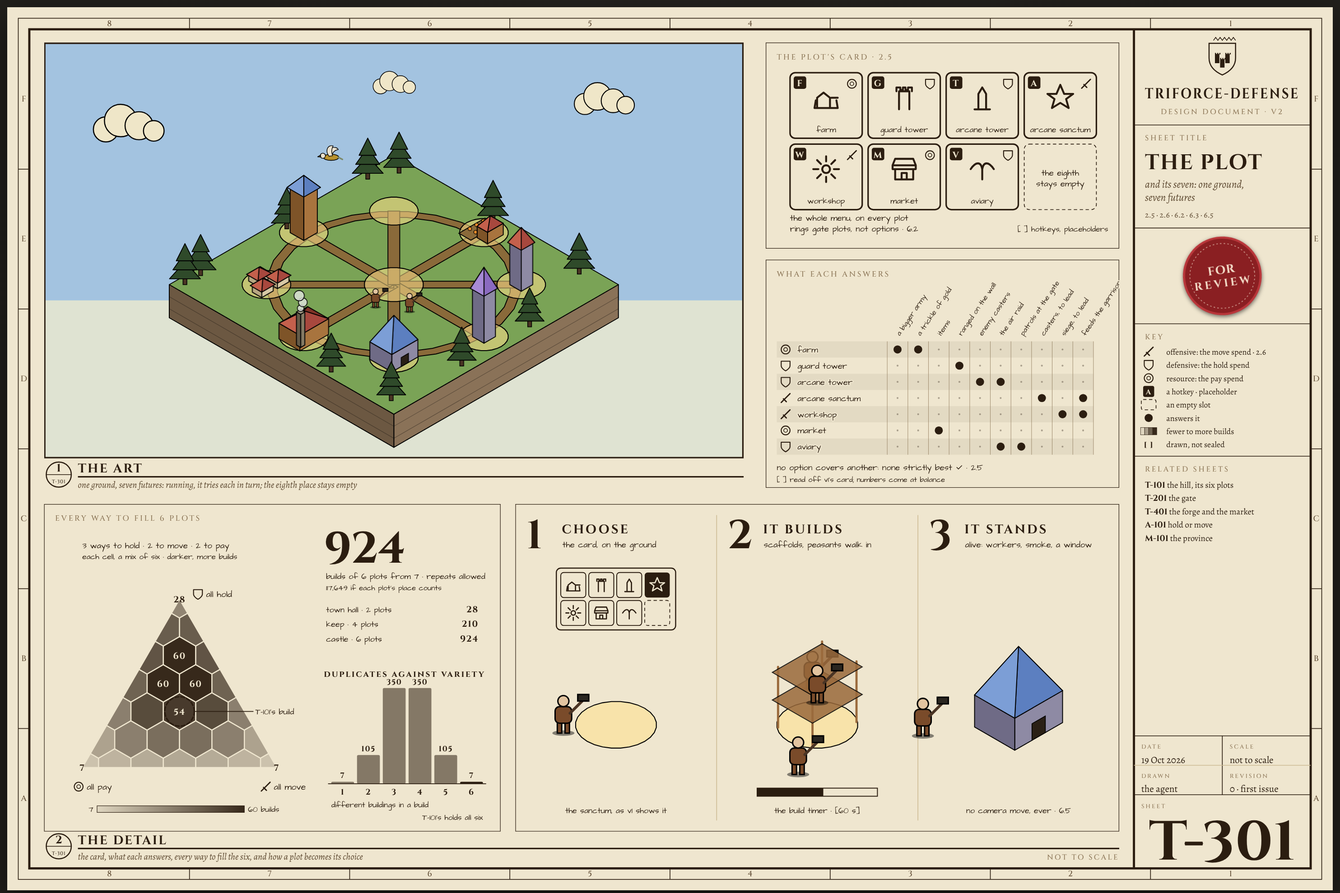
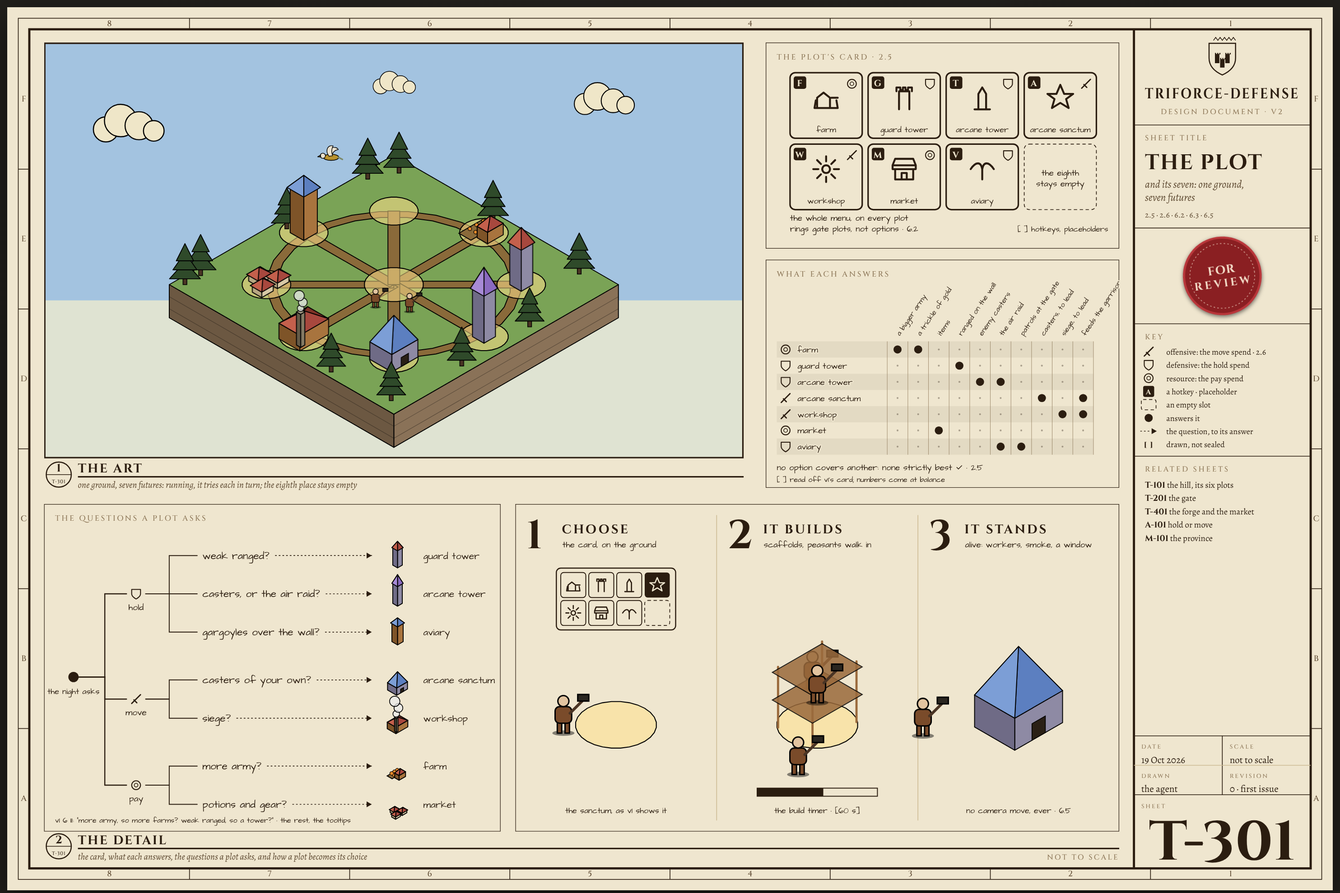
T-301 rev 1: the questions a plot asks replaces the build-space heatmap
The owner turned down the heatmap panel and picked option A of three shown
(the options image is kept in shots/). The tree runs from what the night
asks, through the spend, to the building that answers it; each option's
question is in the town model.

Claude-Session: https://claude.ai/code/session_0171ubkrirX9kEJ21GccUo3u

diff --git a/design/v2/sheet_t301.js b/design/v2/sheet_t301.js
@@ -2,21 +2,19 @@
    THE ART    one ground, seven futures: an empty plot among the seven it can become, the eighth slot empty.
               Running, the ground tries each in turn; the still is the ground before the choice.
    THE DETAIL the plot's card (v1's seven buttons, the eighth empty); what each answers, and the check that
-              none is strictly best (2.5's change rule); every way to fill six plots, as a ternary heatmap of
-              hold, move and pay (python-ternary's hexagonal heatmap, MIT, ported), and the fork v1 names,
-              duplicates against variety; and the plot building itself in view, in three steps (6.5 · R10). */
+              none is strictly best (2.5's change rule); the questions a plot asks, a tree from the night's
+              trouble through the spend to the answer (the owner's pick of three, A); and the plot building
+              itself in view, in three steps (6.5 · R10). */
 (function () {
   // every face loaded first: labels here are placed by their measured widths
   (document.fonts ? Promise.all([...document.fonts].map((f) => f.load().catch(() => null))).then(() => document.fonts.ready) : Promise.resolve()).then(draw);
   function draw() {
   const { el, pts, render } = window.WALL;
   const M = window.MODELS.town, F = window.FIG, ISO = window.ISO;
-  const { text, OPTION, treeParts, ROLE } = window.TOWN;
+  const { text, OPTION, treeParts, ROLE, icon } = window.TOWN;
   const lbl = (g, x, y, s, anchor, size) => text(g, x, y, s, 'pl-lbl', anchor, size || 24);
   const OPT = Object.fromEntries(M.options.map((o) => [o.id, o]));
-  const N = M.plots.length, K = M.options.length;
-  const C = (n, k) => { let r = 1; for (let i = 1; i <= k; i++) r = r * (n - k + i) / i; return Math.round(r); };
-  const multisets = (size, types) => C(size + types - 1, types - 1);       // ways to fill `size` plots from `types` buildings, repeats allowed
+  const K = M.options.length;
 
   /* ════════════ THE ART: one ground, seven futures ════════════ */
   const A = document.getElementById('art'), AW = 1900, AH = 1130;
@@ -106,64 +104,32 @@
   if (strict.length) ok.style.fill = 'var(--redline)';
   lbl(W2, 30, yN + 32, '[ ] read off v1\'s card; numbers come at balance', 'start', 20);
 
-  /* ════════════ EVERY WAY TO FILL SIX PLOTS ════════════ */
-  const SP = document.getElementById('space'), SW2 = 1240, SH2 = 890;
-  const S = el('g', { class: 'hand-vellum' }, SP);
-  el('rect', { width: SW2, height: SH2, class: 'view-frame' }, S);
-  text(S, 30, 46, `every way to fill ${N} plots`, 'sc-kick');
-  const types = { off: 0, def: 0, res: 0 }; M.options.forEach((o) => types[o.role]++);
-  // the mix of a build: how many plots move, hold and pay. Each cell counts the builds with that mix
-  const cells = [];
-  for (let a = 0; a <= N; a++) for (let b = 0; a + b <= N; b++) { const c = N - a - b; cells.push([a, b, c, multisets(a, types.off) * multisets(b, types.def) * multisets(c, types.res)]); }
-  const total = cells.reduce((s2, q) => s2 + q[3], 0), vmax = Math.max(...cells.map((q) => q[3]));
-  // python-ternary's hexagons: a corner, an edge or an interior point each takes its own clipped shape
-  const hx = (() => {
-    const z = [0, 0, 0], al = [-1 / 3, 2 / 3, 0], up = [1 / 3, 1 / 3, 0], dn = [2 / 3, -1 / 3, 0], iv = [0, .5, -.5], ivd = [.5, -.5, 0], dX = [.5, 0, -.5], neg = (v) => v.map((q) => -q);
-    return { 100: [z, neg(dX), neg(dn), neg(ivd)], '010': [z, ivd, neg(al), neg(iv)], '001': [z, iv, up, dX], '011': [iv, up, dn, neg(al), neg(iv)], 101: [neg(dX), neg(dn), al, up, dX], 110: [ivd, neg(al), neg(up), neg(dn), neg(ivd)], 111: [al, up, dn, neg(al), neg(up), neg(dn)] };
-  })();
-  const U = 88, TX = 104, TY = 716, R3 = Math.sqrt(3) / 2;
-  const proj = ([a, b]) => [TX + (a + b / 2) * U, TY - R3 * b * U];          // move to the right, hold to the top, pay to the left
-  const css = getComputedStyle(document.documentElement), hex2 = (h) => h.trim().match(/\w\w/g).map((q) => parseInt(q, 16));
-  const [p0, p1] = [hex2(css.getPropertyValue('--dv-paper')), hex2(css.getPropertyValue('--dv-line'))];
-  const ramp = (t) => `rgb(${p0.map((v, i) => Math.round(v + (p1[i] - v) * t)).join(',')})`;
-  const build = M.build.map((id) => OPT[id].role), mine = [build.filter((r) => r === 'off').length, build.filter((r) => r === 'def').length, build.filter((r) => r === 'res').length];
-  cells.forEach(([a, b, c, v]) => {
-    const sig = [a, b, c].map((q) => (q ? 1 : 0)).join('');
-    const poly = hx[sig].map((d) => proj([a + d[0], b + d[1]]));
-    const t = v / vmax, cell = el('polygon', { points: pts(poly), style: `fill:${ramp(.08 + .86 * t)};stroke:var(--dv-paper);stroke-width:3` }, S);
-    el('title', {}, cell).textContent = `move ${a} · hold ${b} · pay ${c}: ${v} builds`;
-    const [x, y] = proj([a, b]), here = a === mine[0] && b === mine[1];
-    if (v === vmax || here || a === N || b === N || c === N) { const tl = text(S, x, y + 9, String(v), 'pl-tier', null, 24); tl.style.fill = t > .5 ? 'var(--dv-paper)' : ''; }
-    if (here) el('circle', { cx: x, cy: y, r: 40, class: 'ln-heavy', style: 'stroke-width:4;fill:none;stroke-dasharray:10 6' }, S);
-  });
-  const corner = (role, [x, y], dx, dy) => { ROLE[role](S, x + dx, y + dy); lbl(S, x + dx + 22, y + dy + 8, `all ${M.roles[role].spend}`, 'start', 24); };
-  corner('def', proj([0, N]), 50, -14); corner('off', proj([N, 0]), -30, 52); corner('res', proj([0, 0]), -10, 52);
-  { const [x, y] = proj(mine), xe = TX + (N - mine[1] / 2) * U + 30; el('line', { x1: x + 40, y1: y, x2: xe - 6, y2: y, class: 'ln-thin', style: 'stroke-width:2' }, S); lbl(S, xe, y + 8, "T-101's build", 'start', 22); }
-  lbl(S, TX, 120, `${types.def} ways to hold · ${types.off} to move · ${types.res} to pay`, 'start', 23);
-  lbl(S, TX, 150, 'each cell, a mix of six · darker, more builds', 'start', 21);
-  // the ramp's legend
-  { const lx = TX + 40, ly = TY + 104, lw = 400; const gd = el('linearGradient', { id: 's-ramp' }, el('defs', {}, SP)); [0, 1].forEach((o) => el('stop', { offset: o, style: `stop-color:${ramp(.08 + .86 * o)}` }, gd));
-    el('rect', { x: lx, y: ly, width: lw, height: 18, fill: 'url(#s-ramp)', style: 'stroke:var(--dv-line);stroke-width:1.4' }, S);
-    lbl(S, lx - 10, ly + 16, String(Math.min(...cells.map((q) => q[3]))), 'end', 21); lbl(S, lx + lw + 10, ly + 16, `${vmax} builds`, 'start', 21); }
-  // the hero number, by hall tier: each tier opens two plots (6.2)
-  const RX = 760;
-  text(S, RX, 160, String(total), 'st-num', 'start', 120);
-  lbl(S, RX + 6, 204, `builds of ${N} plots from ${K} · repeats allowed`, 'start', 22);
-  lbl(S, RX + 6, 234, `${(K ** N).toLocaleString('en')} if each plot's place counts`, 'start', 20);
-  M.tiers.forEach((tier, i) => { const n2 = 2 * (i + 1), y = 294 + i * 40; lbl(S, RX + 6, y, `${tier.toLowerCase()} · ${n2} plots`, 'start', 22); text(S, RX + 420, y, String(multisets(n2, K)), 'pl-tier', 'end', 24); });
-  // the fork v1 names: duplicates against variety. How many different buildings a build holds
-  const dist = Array.from({ length: N }, (_, i) => C(K, i + 1) * C(N - 1, i));
-  const bx0 = RX + 20, by0 = 760, bwid = 62, bmax = Math.max(...dist), bH = 260;
-  text(S, RX, 470, 'duplicates against variety', 'st-name', 'start', 24);
-  dist.forEach((v, i) => {
-    const h = v / bmax * bH, x = bx0 + i * (bwid + 8), r = el('rect', { x, y: by0 - h, width: bwid, height: h, rx: 4, class: 'pl-wall', style: `opacity:${i + 1 === new Set(M.build).size ? 1 : .55}` }, S);
-    el('title', {}, r).textContent = `${v} builds hold ${i + 1} different buildings`;
-    text(S, x + bwid / 2, by0 - h - 10, String(v), 'pl-tier', null, 21);
-    text(S, x + bwid / 2, by0 + 30, String(i + 1), 'pl-tier', null, 22);
-  });
-  el('line', { x1: bx0 - 8, y1: by0, x2: bx0 + N * (bwid + 8), y2: by0, class: 'ln-thin', style: 'stroke-width:2' }, S);
-  lbl(S, bx0, by0 + 64, 'different buildings in a build', 'start', 21);
-  lbl(S, bx0 + N * (bwid + 8) - 8, by0 + 98, "T-101's holds all six", 'end', 21);
+  /* ════════════ THE QUESTIONS A PLOT ASKS: the night's trouble, the spend, the answer ════════════ */
+  // v1 6 II asks them ("more army, so more farms? weak ranged, so a tower?"); the tooltips ask the rest
+  const QS = document.getElementById('asks'), QW = 1240, QH = 890;
+  const S = el('g', { class: 'hand-vellum' }, QS);
+  el('rect', { width: QW, height: QH, class: 'view-frame' }, S);
+  text(S, 30, 46, 'the questions a plot asks', 'sc-kick');
+  { const groups = ['def', 'off', 'res'].map((r) => [r, M.options.filter((o) => o.role === r)]);
+    const rx = 80, ry = 470, sx = 250, qx = 430, ix = 960, step = 104; let y = 140;
+    el('circle', { cx: rx, cy: ry, r: 14, class: 'pl-wall' }, S); lbl(S, rx, ry + 46, 'the night asks', 'middle', 22);
+    groups.forEach(([role, opts]) => {
+      const ys = opts.map((_, i) => y + i * step), my = (ys[0] + ys[ys.length - 1]) / 2;
+      el('path', { d: `M${rx} ${ry} H${(rx + sx) / 2} V${my} H${sx - 26}`, class: 'ln-heavy', style: 'stroke-width:3;fill:none' }, S);
+      ROLE[role](S, sx, my); lbl(S, sx, my + 44, M.roles[role].spend, 'middle', 24);
+      opts.forEach((o, i) => {
+        const yy = ys[i];
+        el('path', { d: `M${sx + 26} ${my} H${(sx + qx) / 2} V${yy} H${qx - 14}`, class: 'ln-thin', style: 'stroke-width:2.4;fill:none' }, S);
+        const t = lbl(S, qx, yy + 9, o.asks, 'start', 28), tw = t.getComputedTextLength();
+        el('line', { x1: qx + tw + 16, y1: yy, x2: ix - 70, y2: yy, class: 'ln-thin', style: 'stroke-width:2;stroke-dasharray:3 7' }, S);
+        el('path', { d: `M${ix - 70} ${yy} l-14 -8 v16 Z`, class: 'arrow-h' }, S);
+        icon(S, o.id, ix, yy + 26, .34, 2);
+        lbl(S, ix + 70, yy + 9, o.name.toLowerCase(), 'start', 26);
+      });
+      y += opts.length * step + 26;
+    });
+    S.querySelectorAll('.m-circle').forEach((n) => n.remove());   // the Aviary's gryphon circles the art, not the tree
+    lbl(S, 30, QH - 24, "v1 6 II: “more army, so more farms? weak ranged, so a tower?” · the rest, the tooltips", 'start', 20); }
 
   /* ════════════ IT BUILDS ITSELF IN VIEW: three steps (6.5 · R10) ════════════ */
   const ST = document.getElementById('steps'), TW = 1640, TH = 890, FW = TW / 3;
@@ -205,7 +171,7 @@
   row(3, (q, x, y) => { el('rect', { x: x - 15, y: y - 15, width: 30, height: 30, rx: 5, class: 'pl-wall' }, q); text(q, x, y + 8, 'A', 'pl-tier', null, 20).style.fill = 'var(--dv-paper)'; }, 'a hotkey · placeholder');
   row(4, (q, x, y) => el('rect', { x: x - 20, y: y - 14, width: 40, height: 28, rx: 5, class: 'pl-dim' }, q), 'an empty slot');
   row(5, (q, x, y) => el('circle', { cx: x, cy: y, r: 11, class: 'pl-wall' }, q), 'answers it');
-  row(6, (q, x, y) => { for (let j = 0; j < 4; j++) el('rect', { x: x - 22 + j * 11, y: y - 10, width: 11, height: 20, style: `fill:${ramp(.08 + .86 * j / 3)};stroke:var(--dv-line);stroke-width:1` }, q); }, 'fewer to more builds');
+  row(6, (q, x, y) => { el('line', { x1: x - 22, y1: y, x2: x + 8, y2: y, class: 'ln-thin', style: 'stroke-width:2;stroke-dasharray:3 7' }, q); el('path', { d: `M${x + 22} ${y} l-14 -8 v16 Z`, class: 'arrow-h' }, q); }, 'the question, to its answer');
   row(7, (q, x, y) => text(q, x, y + 8, '[ ]', 'pl-tier', null, 20), 'drawn, not sealed');
   }
 })();

diff --git a/design/v2/T-301.html b/design/v2/T-301.html
@@ -4,7 +4,7 @@
 <meta charset="utf-8">
 <meta name="viewport" content="width=device-width, initial-scale=1">
 <title>T-301 · The Plot</title>
-<meta name="description" content="Sheet T-301, a plot and its seven: one ground among the seven it can become, the plot's card, what each answers, every way to fill six plots as a heatmap of hold, move and pay, and the plot building itself in three steps. Decisions 2.5, 2.6, 6.3 and 6.5.">
+<meta name="description" content="Sheet T-301, a plot and its seven: one ground among the seven it can become, the plot's card, what each answers, the questions a plot asks as a tree, and the plot building itself in three steps. Decisions 2.5, 2.6, 6.3 and 6.5.">
 <link rel="stylesheet" href="wallsheet_tokens.css">
 <link rel="stylesheet" href="wallsheet_ds.css">
 </head>
@@ -12,7 +12,7 @@
 <main class="sheet">
   <svg viewBox="0 0 3600 2400" aria-labelledby="t301-title" aria-describedby="t301-desc">
     <title id="t301-title">Sheet T-301, the plot and its seven: one ground, seven futures. For review.</title>
-    <desc id="t301-desc">The art, top left: one ground, seven futures. An empty plot ring stands in the middle of a grass ground, two peasants waiting by it, with paths out to eight places round it like the spokes of a wheel: on seven of them stand the seven things a plot can become, the Farm with its pumpkin field, the Guard Tower, the Arcane Tower, the Arcane Sanctum, the Workshop, the Market and the Aviary with its gryphon circling; the eighth place is empty. Running, the middle ground becomes each of the seven in turn. Top right, the plot's card: seven buttons with their hotkeys and role marks, the eighth slot empty; and what each answers, a grid of the seven against what their tooltips say they give, with the check that no option covers another, so none is strictly best. Below, every way to fill six plots: a triangular heatmap of builds by how many plots move, hold and pay, 924 in all, darkest where there are most, with T-101's build ringed; the count by hall tier; and duplicates against variety, how many builds hold one to six different buildings. Then the plot building itself in view in three steps: choose on the card, the scaffold with peasants at work under a build timer, and the Arcane Sanctum standing.</desc>
+    <desc id="t301-desc">The art, top left: one ground, seven futures. An empty plot ring stands in the middle of a grass ground, two peasants waiting by it, with paths out to eight places round it like the spokes of a wheel: on seven of them stand the seven things a plot can become, the Farm with its pumpkin field, the Guard Tower, the Arcane Tower, the Arcane Sanctum, the Workshop, the Market and the Aviary with its gryphon circling; the eighth place is empty. Running, the middle ground becomes each of the seven in turn. Top right, the plot's card: seven buttons with their hotkeys and role marks, the eighth slot empty; and what each answers, a grid of the seven against what their tooltips say they give, with the check that no option covers another, so none is strictly best. Below, the questions a plot asks, as a tree: from what the night told you, through the spend, hold, move or pay, to the building that answers it: weak ranged, the Guard Tower; casters or the air raid, the Arcane Tower; gargoyles over the wall, the Aviary; casters of your own, the Arcane Sanctum; siege, the Workshop; more army, the Farm; potions and gear, the Market. Then the plot building itself in view in three steps: choose on the card, the scaffold with peasants at work under a build timer, and the Arcane Sanctum standing.</desc>
     <rect class="paper" width="3600" height="2400"/>
     <rect class="border-2" x="30" y="30" width="3540" height="2340"/>
     <rect class="border" x="60" y="60" width="3480" height="2280"/>
@@ -51,14 +51,14 @@
     <text class="vt-sub" x="192" y="1306" style="font-size:25px">one ground, seven futures: running, it tries each in turn; the eighth place stays empty</text>
     <svg id="card" x="2060" y="96" width="960" height="560" viewBox="0 0 960 560" role="img" aria-label="The plot's card: seven buttons and an empty eighth."></svg>
     <svg id="answers" x="2060" y="686" width="960" height="620" viewBox="0 0 960 620" role="img" aria-label="What each of the seven answers, and the check that none is strictly best."></svg>
-    <svg id="space" x="100" y="1350" width="1240" height="890" viewBox="0 0 1240 890" role="img" aria-label="Every way to fill six plots, as a heatmap of hold, move and pay."></svg>
+    <svg id="asks" x="100" y="1350" width="1240" height="890" viewBox="0 0 1240 890" role="img" aria-label="The questions a plot asks: what the night tells you, the spend, and which of the seven answers it."></svg>
     <svg id="steps" x="1380" y="1350" width="1640" height="890" viewBox="0 0 1640 890" role="img" aria-label="The plot builds itself in view, in three steps."></svg>
 
     <circle class="vt-ring" cx="140" cy="2280" r="34"/><line class="rule" x1="106" y1="2280" x2="174" y2="2280"/>
     <text class="vt-id" x="140" y="2272" style="font-size:30px">2</text><text class="vt-sh" x="140" y="2304" style="font-size:14px">T-301</text>
     <text class="vt-title" x="192" y="2274" style="font-size:34px">THE DETAIL</text>
     <line class="rule" x1="192" y1="2286" x2="3020" y2="2286" style="stroke-width:4"/>
-    <text class="vt-sub" x="192" y="2316" style="font-size:25px">the card, what each answers, every way to fill the six, and how a plot becomes its choice</text>
+    <text class="vt-sub" x="192" y="2316" style="font-size:25px">the card, what each answers, the questions a plot asks, and how a plot becomes its choice</text>
     <text class="vt-scale" x="3020" y="2316">NOT TO SCALE</text>
 
     <line class="rule" x1="3060" y1="60" x2="3060" y2="2340" style="stroke-width:6"/>

diff --git a/design/v2/model_town.js b/design/v2/model_town.js
@@ -48,16 +48,17 @@
     plotR: 52,
 
     // 6.3 · 2.6: what a plot can become. Seven, sealed; the eighth slot stays empty. From v1's plot card
-    // (chapter 6 II): each button's hotkey (placeholders, v1 says), its icon (24-unit line art), and what
-    // its tooltip says it answers, as the needs below. The answers are read off the tooltips, not balanced.
+    // (chapter 6 II): the question each answers (v1 6 II asks four: more army, weak ranged, casters, siege;
+    // the tooltips and v1 7's air raid ask the rest), each button's hotkey (placeholders, v1 says), its icon
+    // (24-unit line art), and what its tooltip says it answers, as the needs below. Read off, not balanced.
     options: [
-      { id: 'farm', name: 'Farm', role: 'res', key: 'F', icon: 'M3 20h18 M5 20v-8l5-4 5 4v8 M4 14l-1 6 M20 14l1 6 M16 12h5', answers: ['food', 'gold'] },
-      { id: 'guard', name: 'Guard Tower', role: 'def', key: 'G', icon: 'M8 21V7h8v14 M6 7V4h3v2h2V4h2v2h2V4h3v3', answers: ['ranged'] },
-      { id: 'arcane', name: 'Arcane Tower', role: 'def', key: 'T', icon: 'M9 21V9l3-5 3 5v12 M6 21h12', answers: ['casters', 'air'] },
-      { id: 'sanctum', name: 'Arcane Sanctum', role: 'off', key: 'A', icon: 'M12 2l3 7h7l-5.5 4 2 7-6.5-4-6.5 4 2-7L2 9h7z', answers: ['magic', 'garrison'] },
-      { id: 'workshop', name: 'Workshop', role: 'off', key: 'W', icon: 'M12 9a3 3 0 1 0 0.01 0 M12 2v4M12 18v4M2 12h4M18 12h4M5 5l3 3M16 16l3 3M19 5l-3 3M8 16l-3 3', answers: ['siege', 'garrison'] },
-      { id: 'market', name: 'Market', role: 'res', key: 'M', icon: 'M3 9l2-5h14l2 5 M3 9h18v3H3z M5 12v8h14v-8 M10 20v-5h4v5', answers: ['items'] },
-      { id: 'aviary', name: 'Aviary', role: 'def', key: 'V', icon: 'M3 12c4-6 8-6 9 0 1-6 5-6 9 0 M12 12v8', answers: ['air', 'patrols'] }
+      { id: 'farm', name: 'Farm', role: 'res', asks: 'more army?', key: 'F', icon: 'M3 20h18 M5 20v-8l5-4 5 4v8 M4 14l-1 6 M20 14l1 6 M16 12h5', answers: ['food', 'gold'] },
+      { id: 'guard', name: 'Guard Tower', role: 'def', asks: 'weak ranged?', key: 'G', icon: 'M8 21V7h8v14 M6 7V4h3v2h2V4h2v2h2V4h3v3', answers: ['ranged'] },
+      { id: 'arcane', name: 'Arcane Tower', role: 'def', asks: 'casters, or the air raid?', key: 'T', icon: 'M9 21V9l3-5 3 5v12 M6 21h12', answers: ['casters', 'air'] },
+      { id: 'sanctum', name: 'Arcane Sanctum', role: 'off', asks: 'casters of your own?', key: 'A', icon: 'M12 2l3 7h7l-5.5 4 2 7-6.5-4-6.5 4 2-7L2 9h7z', answers: ['magic', 'garrison'] },
+      { id: 'workshop', name: 'Workshop', role: 'off', asks: 'siege?', key: 'W', icon: 'M12 9a3 3 0 1 0 0.01 0 M12 2v4M12 18v4M2 12h4M18 12h4M5 5l3 3M16 16l3 3M19 5l-3 3M8 16l-3 3', answers: ['siege', 'garrison'] },
+      { id: 'market', name: 'Market', role: 'res', asks: 'potions and gear?', key: 'M', icon: 'M3 9l2-5h14l2 5 M3 9h18v3H3z M5 12v8h14v-8 M10 20v-5h4v5', answers: ['items'] },
+      { id: 'aviary', name: 'Aviary', role: 'def', asks: 'gargoyles over the wall?', key: 'V', icon: 'M3 12c4-6 8-6 9 0 1-6 5-6 9 0 M12 12v8', answers: ['air', 'patrols'] }
     ],
     // what a plot can answer, in the tooltips' words (v1 6 II; the air raid, v1 7: "Riflemen, the Arcane
     // Tower and the Aviary's patrols are the answer")

diff --git a/design/v2/README.md b/design/v2/README.md
@@ -37,7 +37,7 @@ Add `?motion=data` to keep only what the numbers drive, or `?motion=still` to se
 - `X-001.html` — trial: the gate as a cutaway, in four drawing hands (Q4, chose drafting vellum)
 - `C-101.html` — the clock (approved; it was the mockup X-002)
 - `M-101.html` — the province (approved): a diorama at dusk, the graph, the plan, section A–A, the two roads raced
-- `T-301.html` — the plot and its seven (for review): one ground, seven futures; the card; what each answers; every way to fill six plots; the build in view
+- `T-301.html` — the plot and its seven (for review): one ground, seven futures; the card; what each answers; the questions a plot asks; the build in view
 - `T-101.html` — the hill (approved): the town under its mountains, a key plan, the river source to lake, the hill's charge, three numbered steps
 - `X-003.html` — trial for Q7: the hill town with every LEGO device it tried
 - `wallsheet_tokens.css` — every colour and font (GAME-07)
@@ -53,4 +53,4 @@ Add `?motion=data` to keep only what the numbers drive, or `?motion=still` to se
 - `model_province.js` — the province (1.2 · 1.5, clarified on T-101), Plate I's map as data with the river from the ridge, the relief and section line: T-101's key plan, M-101
 - `sheet_clock.js` — C-101's two faces, both computed from `model_clock.js`, and the one clock that runs them
 - `vendor/rough.js` — rough.js 4.6.6 (MIT, `vendor/LICENSE-roughjs.txt`), the pencil hand
-- `shots/` — one screenshot per sheet, the clock's art running (`C-101-art.gif`), M-101's race (`M-101-race.gif`), T-301's ground trying its seven (`T-301-art.gif`), and what a question was asked with (the motion GIFs, the night-growth options)
+- `shots/` — one screenshot per sheet, the clock's art running (`C-101-art.gif`), M-101's race (`M-101-race.gif`), T-301's ground trying its seven (`T-301-art.gif`), and what a question was asked with (the motion GIFs, the night-growth options, T-301's panel options)

diff --git a/docs/CHANGELOG.md b/docs/CHANGELOG.md
@@ -7,6 +7,10 @@ Mirrors the Build Timeline in `DECISIONS.md`.
 ## Unreleased
 - …
 
+## 2026-10-19 — T-301 revision 1: the questions a plot asks
+- The owner didn't like the build-space panel (the ternary heatmap of 924 builds, the counts by tier, duplicates against variety). Three replacements were drawn from real data and shown (`shots/T-301-panel-options.png`): A, the questions a plot asks; B, duplicates against variety drawn on the hill's six plots; C, seven for six. The owner picked A.
+- The panel is now a tree: what the night asks, through the spend (hold, move, pay), to the building that answers it, in v1's words where v1 asks (more army, weak ranged, casters, siege) and the tooltips' for the rest. Each option's question lives in `model_town.js`. The heatmap code and its python-ternary port are gone.
+
 ## 2026-10-19 — T-301, the plot and its seven (for review)
 - `T-301.html`, from `model_town.js`, which gains v1's plot card per option (hotkey, icon, what its tooltip says it answers) and the needs those answers name. The art: one ground, seven futures, an empty plot at the hub of a wheel of eight places, the seven standing on seven of them, the eighth empty; running, the hub tries each in turn (`shots/T-301-art.gif`); the still is the ground before the choice.
 - The detail: the plot's card, seven buttons and the empty eighth; what each answers, a grid of the seven against the needs, with 2.5's change rule checked (no option covers another, so none is strictly best); every way to fill six plots, 924 builds (117,649 if a plot's place counts), as a ternary heatmap of how many plots move, hold and pay (python-ternary's hexagonal heatmap, MIT, ported), T-101's build ringed, the count by hall tier (28, 210, 924), and v1's fork, duplicates against variety: only 7 builds hold six different buildings, and T-101's is one; then the plot building itself in view in three numbered steps (6.5 · R10).

diff --git a/design/v2/RULES.md b/design/v2/RULES.md
@@ -54,7 +54,7 @@ Q1–Q7 are answered and sealed as R1–R10 (19 Oct 2026). A new rule, or a chan
 | X-003 | the hill town (1.5 · 2.4–2.6 · 5.1 · 6.1–6.6) | box art (isometric, from the town model) over three steps and a callout (plans from the same model) | trial; chose R10 (Q7): the box art and the numbered steps stay, the parts boxes, bold-new with arrows and callouts go |
 | T-101 | the hill (1.5 · 2.1 · 2.4–2.6 · 5.1 · 6.1–6.6) | the box (R10, as a framed render) beside a key plan, the river's section, the hill's charge, over three numbered steps (R10) | **approved** 19 Oct. Rev 1: the mountains around the hill, the river downhill (1.5 clarified), the box plainer (R10 refined). Its town layout is drawn, not sealed (2.5) |
 | M-101 | the province (1.2 · 1.5) | a diorama at dusk beside the graph, over the plan (hachured from one model of the ground), section A–A and the two roads unrolled | **approved** 19 Oct. Its finding stays open: as drawn, the quick road is 1.13× the safe road (`DECISIONS.md`) |
-| T-301 | a plot and its seven (2.5 · 2.6 · 6.2 · 6.3 · 6.5) | the art (one ground, seven futures) beside the card and a grid of what each answers, over a ternary heatmap of every build and three numbered steps (R10) | first issue, for review. Checks 2.5's rule: no option covers another |
+| T-301 | a plot and its seven (2.5 · 2.6 · 6.2 · 6.3 · 6.5) | the art (one ground, seven futures) beside the card and a grid of what each answers, over the questions a plot asks (a tree) and three numbered steps (R10) | for review. Checks 2.5's rule: no option covers another. Rev 1: the owner turned down the build-space heatmap and picked the questions tree from three shown (`shots/T-301-panel-options.png`) |
 
 ## Sources
 
